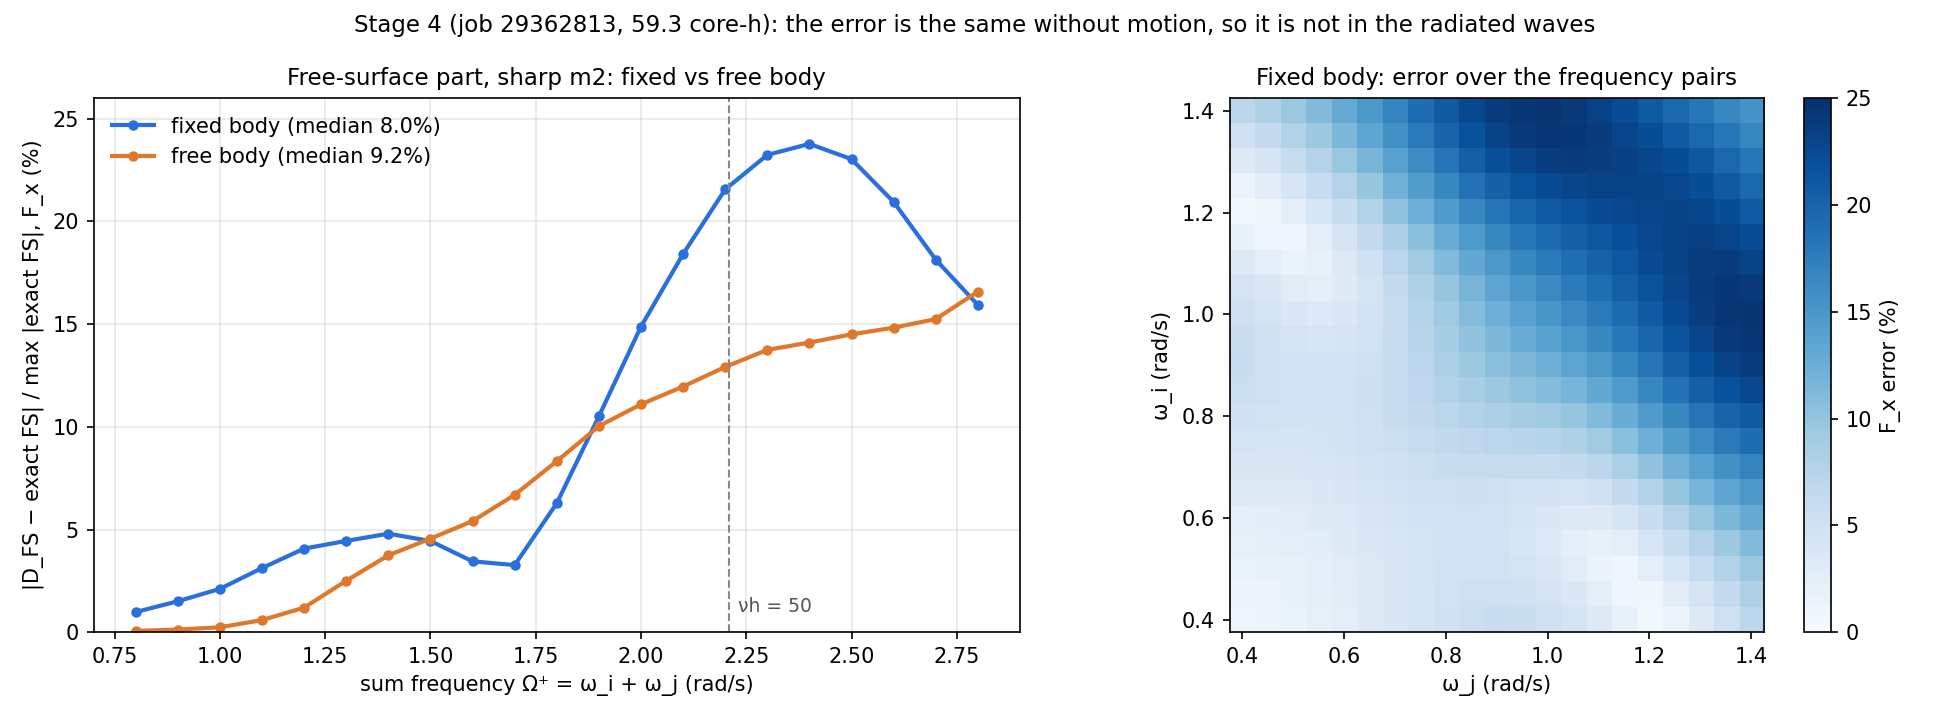
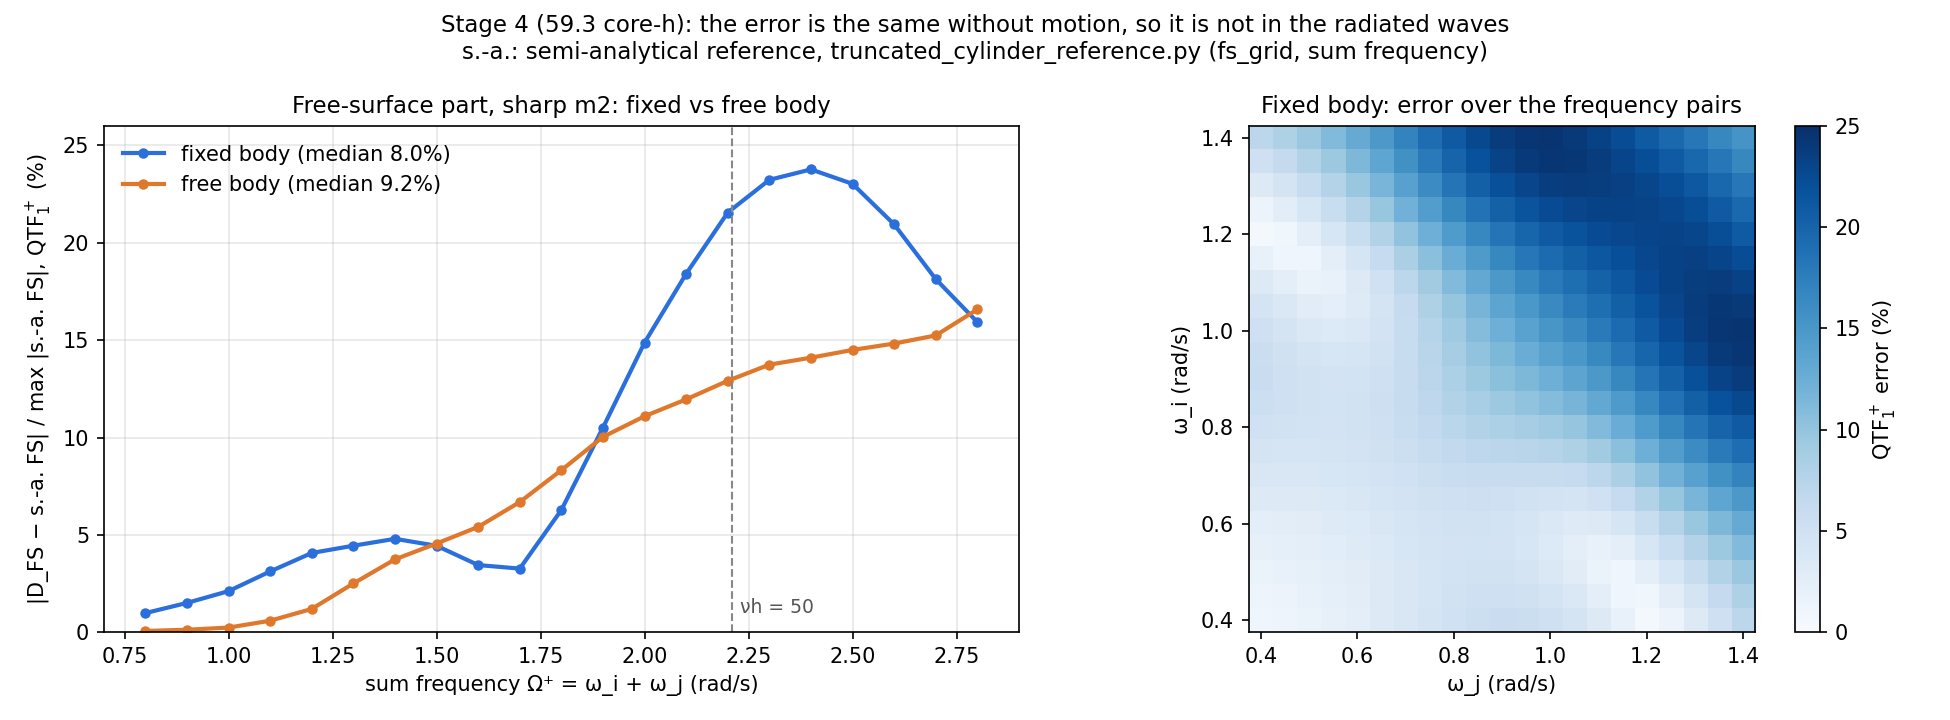
Name reference sources and mode indices in QTF figures
qtf_plots.py labels the reference as the semi-analytical one of
truncated_cylinder_reference.py, Nemoh as Nemoh v3.0.3, and each
quantity by its mode (QTF-1 surge, QTF-3 heave, QTF-5 pitch).
The seven docs figures are re-rendered from the saved results with
the same labelling: WAMIT as the OpenFAST r-test marin_semi file,
mean drift as F-bar_i, motions as xi_i. No data change.

diff --git a/pre_postprocessing_python/SecondOrder/qtf_plots.py b/pre_postprocessing_python/SecondOrder/qtf_plots.py
@@ -33,6 +33,16 @@ import matplotlib.pyplot as plt  # noqa: E402
 import qtf_compare as qc  # noqa: E402
 
 PANELS = {"m1": 448, "m2": 1792, "m3": 4032, "m4": 7168}
+# Labels: the reference is named by its source, each quantity by its mode (1 surge, 3 heave, 5 pitch).
+SA = "semi-analytical (truncated_cylinder_reference.py)"
+NEMOH = "Nemoh v3.0.3"
+MODE = {1: "surge", 3: "heave", 5: "pitch"}
+SUB = {1: "\u2081", 3: "\u2083", 5: "\u2085"}
+
+
+def qlabel(index, kernel):
+    """QTF\u207b\u2081 (surge) and the like: the kernel sign and the mode index."""
+    return "QTF%s%s (%s)" % ("\u207b" if kernel == "diff" else "\u207a", SUB[index], MODE[index])
 
 
 def series(table, omegas, dw, index, kernel, source):
@@ -78,7 +88,7 @@ def main(argv=None):
                     v = ref[(motion, kern, wj, wi)][q]
                     return v.conjugate() if kern == "diff" else v
                 return None
-            lines.append(("exact", ref_source, dict(color="k", lw=2.2)))
+            lines.append((SA, ref_source, dict(color="k", lw=2.2)))
             for path in sorted(glob.glob(os.path.join(args.results, "q_sharp_%s_src_m*" % motion))):
                 tag = path.rsplit("_", 1)[-1]
                 table = qc.read_hams(os.path.join(path, "output", "Wamit_format", "QTF_Quadratic." + ext))
@@ -90,7 +100,7 @@ def main(argv=None):
                     tag = path.rsplit("_", 1)[-1]
                     table = qc.read_nemoh(os.path.join(path, "results", "QTF", nfile))
                     if table:
-                        lines.append(("Nemoh %d panels" % PANELS.get(tag, 0),
+                        lines.append((NEMOH + " DUOK, %d panels" % PANELS.get(tag, 0),
                                       lambda wi, wj, i, k, t=table: qc.lookup(t, wi, wj, i, k),
                                       dict(ls="--", marker="o", ms=3, lw=1.0)))
             for row, (quantity, index) in enumerate(qc.QUANTITIES):
@@ -98,9 +108,9 @@ def main(argv=None):
                     xs, vs = series(None, omegas, args.dw, index, kernel, source)
                     axes[row, 0].plot(xs, [v.real for v in vs], label=label, **style)
                     axes[row, 1].plot(xs, [v.imag for v in vs], label=label, **style)
-                axes[row, 0].set_ylabel("%s / (ρg)" % quantity)
+                axes[row, 0].set_ylabel("%s / (ρg)" % qlabel(index, kernel))
                 for col, part in enumerate(("Re", "Im")):
-                    axes[row, col].set_title("%s %s" % (part, quantity), fontsize=10)
+                    axes[row, col].set_title("%s %s" % (part, qlabel(index, kernel)), fontsize=10)
                     axes[row, col].grid(alpha=0.3)
             for col in range(2):
                 axes[2, col].set_xlabel("ω (rad/s)" if kernel == "sum" else "ω_i (rad/s), ω_j = ω_i + %.2f" % args.dw)
@@ -130,7 +140,7 @@ def convergence(args, ref, max_dw=0.3):
                 sources = [("HAMS", os.path.join(args.results, "q_sharp_%s_src_m*" % motion), qc.read_hams,
                             os.path.join("output", "Wamit_format", "QTF_Quadratic." + ext), "o")]
                 if args.nemoh:
-                    sources.append(("Nemoh", os.path.join(args.nemoh, "nemoh_sharp_%s_m*" % motion), qc.read_nemoh,
+                    sources.append((NEMOH, os.path.join(args.nemoh, "nemoh_sharp_%s_m*" % motion), qc.read_nemoh,
                                     os.path.join("results", "QTF", nfile), "s"))
                 for code, pattern, reader, fname, marker in sources:
                     pts = []
@@ -153,14 +163,15 @@ def convergence(args, ref, max_dw=0.3):
                               label="%s median" % code)
                     ax.loglog([q[0] for q in pts], [q[2] for q in pts], ":" + marker, color=color, mfc=face,
                               label="%s largest" % code)
-                ax.set_title("%s, %s" % (quantity, "difference" if kernel == "diff" else "sum"), fontsize=10)
+                ax.set_title(qlabel(index, kernel), fontsize=10)
                 ax.grid(alpha=0.3, which="both")
                 if col == 0:
-                    ax.set_ylabel("error / max |exact| (%)")
+                    ax.set_ylabel("error / max |semi-analytical| (%)")
                 if row == 1:
                     ax.set_xlabel("panels")
         axes[0, 0].legend(fontsize=8)
-        fig.suptitle("Sharp truncated cylinder, %s body: mesh convergence of the quadratic QTFs against the exact reference\n"
+        fig.suptitle("Sharp truncated cylinder, %s body: mesh convergence of the quadratic QTFs against the\n"
+                     "semi-analytical reference (truncated_cylinder_reference.py; Garrett 1971, Yeung 1981);\n"
                      "difference pairs with omega_j - omega_i <= %.1f rad/s, sum pairs all, 0.40 to 1.40 rad/s" % (motion, max_dw))
         fig.tight_layout()
         name = os.path.join(args.out, "qtf_%s_convergence.png" % motion)
@@ -188,8 +199,8 @@ def potential(args):
         cases = sorted(glob.glob(os.path.join(args.results, "q_sharp_%s_src_m*" % motion)))
         # the total: .11d against the exact quadratic + body forcing
         fig, axes = plt.subplots(3, 2, figsize=(11, 10), sharex=True)
-        lines = [("exact total", exact("total"), dict(color="k", lw=2.2)),
-                 ("exact quadratic", lambda wi, wj, i, k, s=exact("total"), p=exact("pot"):
+        lines = [(SA + ", total", exact("total"), dict(color="k", lw=2.2)),
+                 (SA + ", quadratic", lambda wi, wj, i, k, s=exact("total"), p=exact("pot"):
                   None if s(wi, wj, i, k) is None else s(wi, wj, i, k) - p(wi, wj, i, k), dict(color="0.6", ls=":", lw=1.6))]
         for path in cases:
             table = qc.read_hams(os.path.join(path, "output", "Wamit_format", "QTF_Indirect.11d"))
@@ -200,7 +211,7 @@ def potential(args):
             for path in sorted(glob.glob(os.path.join(args.nemoh, "nemoh_sharp_%s_m*" % motion))):
                 table = qc.read_nemoh(os.path.join(path, "results", "QTF", "OUT_QTFM_N.dat"))
                 if table:
-                    lines.append(("Nemoh DUOK+HASBO %d panels" % PANELS.get(path.rsplit("_", 1)[-1], 0),
+                    lines.append((NEMOH + " DUOK+HASBO, %d panels" % PANELS.get(path.rsplit("_", 1)[-1], 0),
                                   lambda wi, wj, i, k, t=table: qc.lookup(t, wi, wj, i, k),
                                   dict(ls="--", marker="o", ms=3, lw=1.0)))
         for row, (quantity, index) in enumerate(qc.QUANTITIES):
@@ -208,9 +219,9 @@ def potential(args):
                 xs, vs = series(None, omegas, args.dw, index, "diff", source)
                 axes[row, 0].plot(xs, [v.real for v in vs], label=label, **style)
                 axes[row, 1].plot(xs, [v.imag for v in vs], label=label, **style)
-            axes[row, 0].set_ylabel("%s / (ρg)" % quantity)
+            axes[row, 0].set_ylabel("%s / (ρg)" % qlabel(index, "diff"))
             for col, part in enumerate(("Re", "Im")):
-                axes[row, col].set_title("%s %s" % (part, quantity), fontsize=10)
+                axes[row, col].set_title("%s %s" % (part, qlabel(index, "diff")), fontsize=10)
                 axes[row, col].grid(alpha=0.3)
         for col in range(2):
             axes[2, col].set_xlabel("ω_i (rad/s), ω_j = ω_i + %.2f" % args.dw)
@@ -230,16 +241,16 @@ def potential(args):
         for row, term in enumerate(qc.POTENTIAL_TERMS):
             for col, (quantity, index) in enumerate(qc.QUANTITIES):
                 ax = axes[row, col]
-                styles = [("exact", exact(term), "k", 2.2)]
+                styles = [(SA, exact(term), "k", 2.2)]
                 styles += [("HAMS %d panels" % n, qc._term(t, row), "C%d" % (c % 10), 1.2)
                            for c, (n, t) in enumerate(tables) if t]
                 for label, source, color, width in styles:
                     xs, vs = series(None, omegas, args.dw, index, "diff",
-                                    (lambda wi, wj, i, k, s=source: s(wi, wj, i, k)) if label == "exact"
+                                    (lambda wi, wj, i, k, s=source: s(wi, wj, i, k)) if label == SA
                                     else (lambda wi, wj, i, k, s=source: s(wi, wj, i)))
                     ax.plot(xs, [v.real for v in vs], color=color, lw=width, label=label + " Re")
                     ax.plot(xs, [v.imag for v in vs], color=color, lw=width, ls="--", label=label + " Im")
-                ax.set_title("%s, %s" % (term, quantity), fontsize=10)
+                ax.set_title("%s, %s" % (term, qlabel(index, "diff")), fontsize=10)
                 ax.grid(alpha=0.3)
                 if row == len(qc.POTENTIAL_TERMS) - 1:
                     ax.set_xlabel("ω_i (rad/s), ω_j = ω_i + %.2f" % args.dw)
